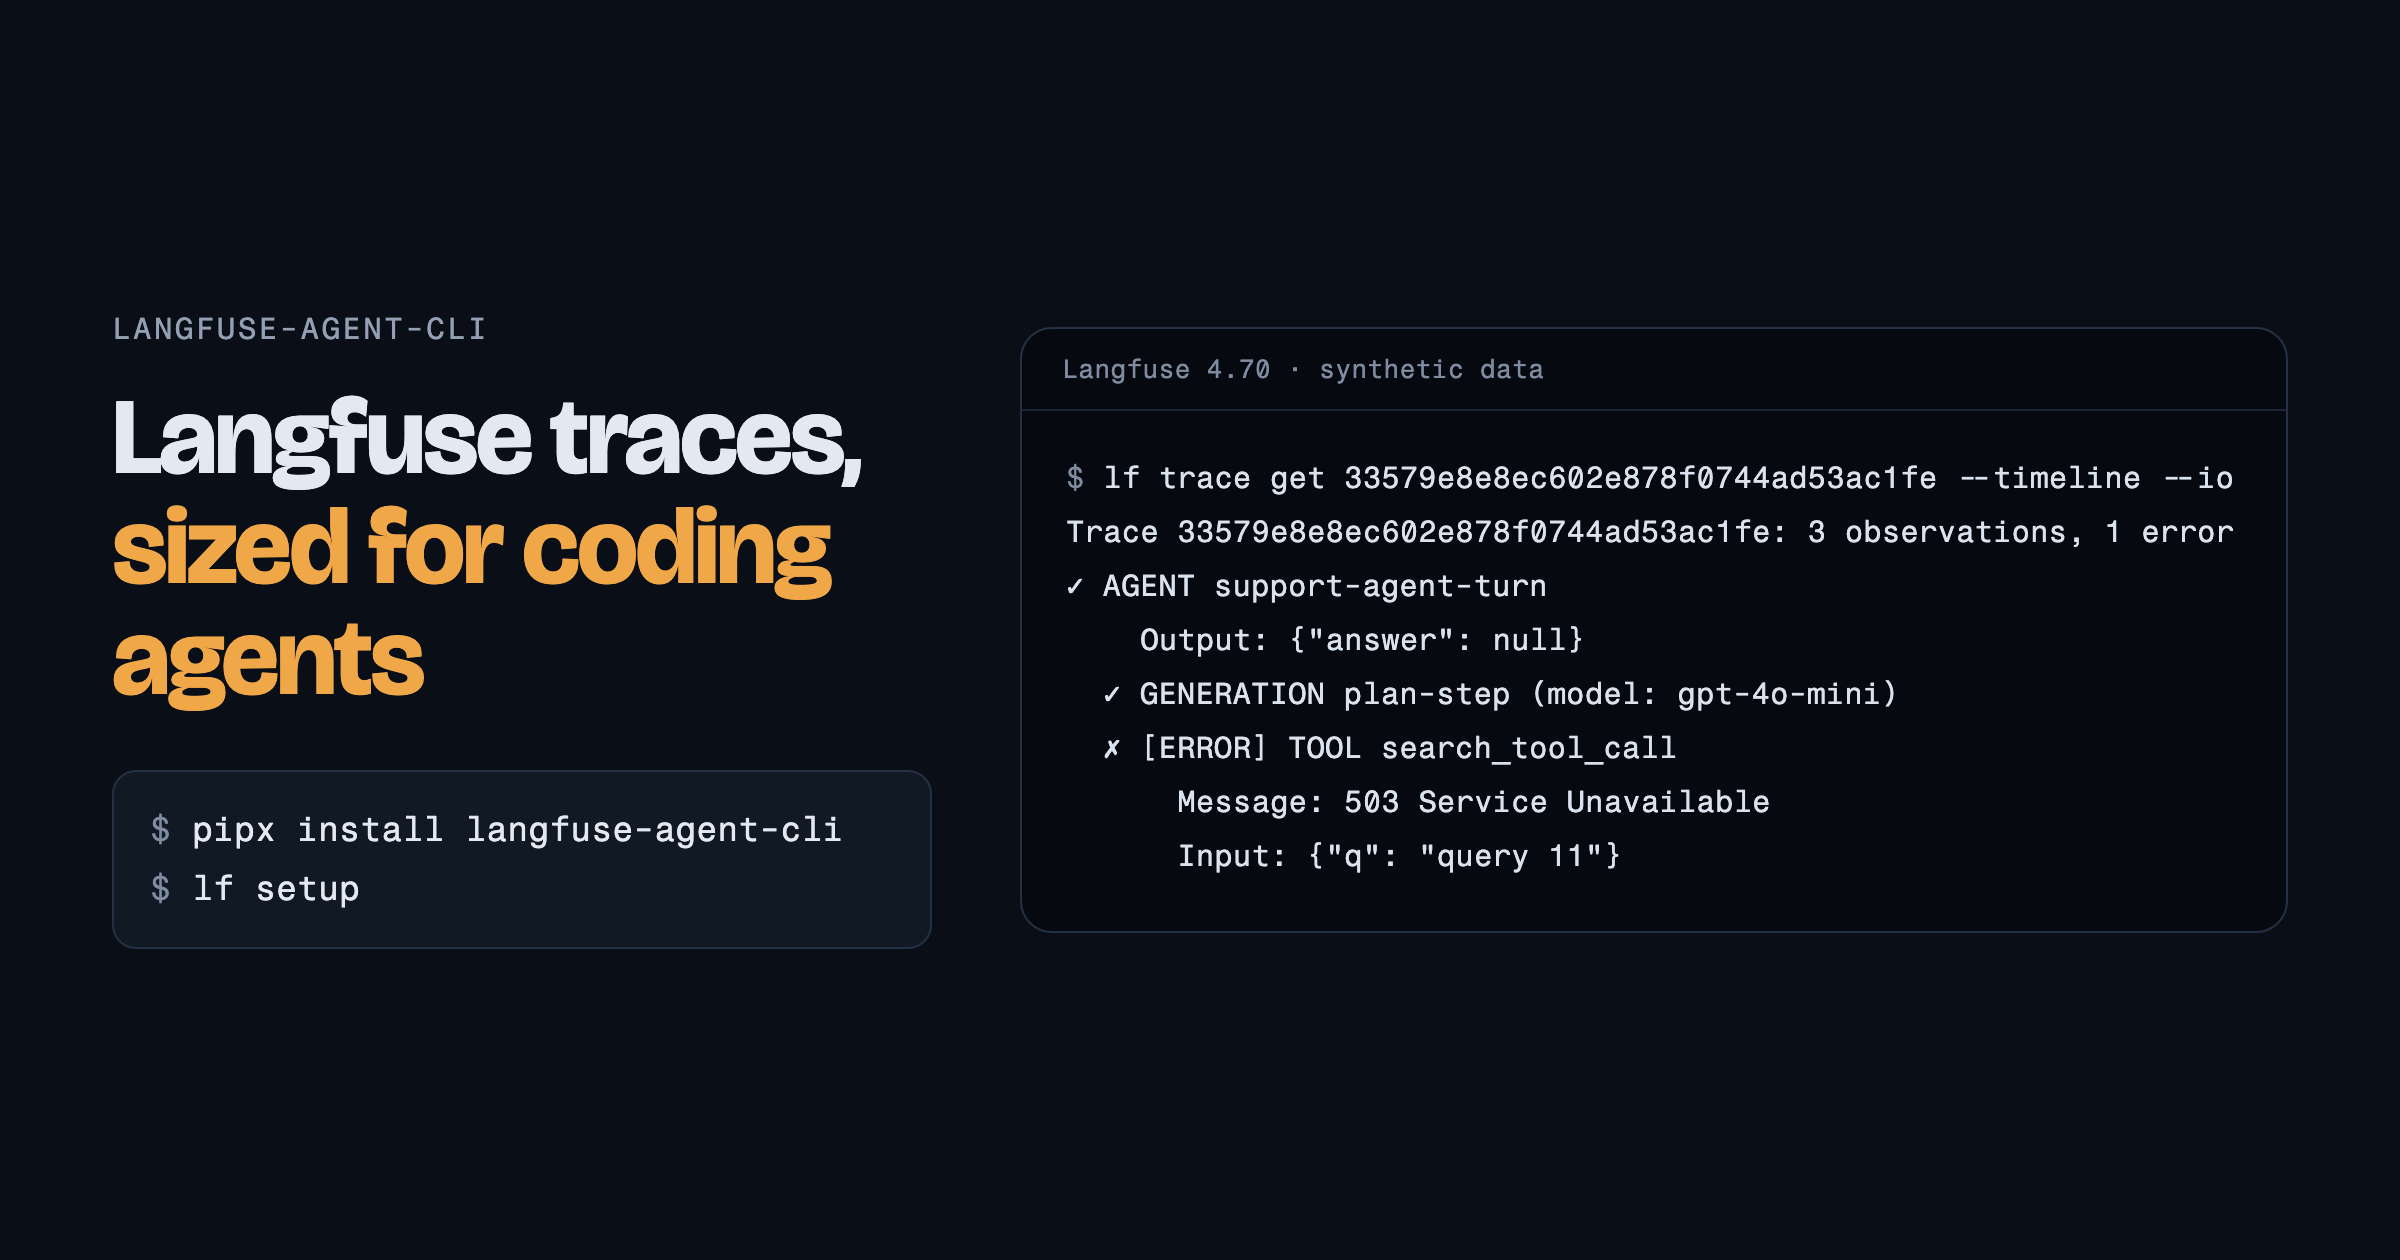
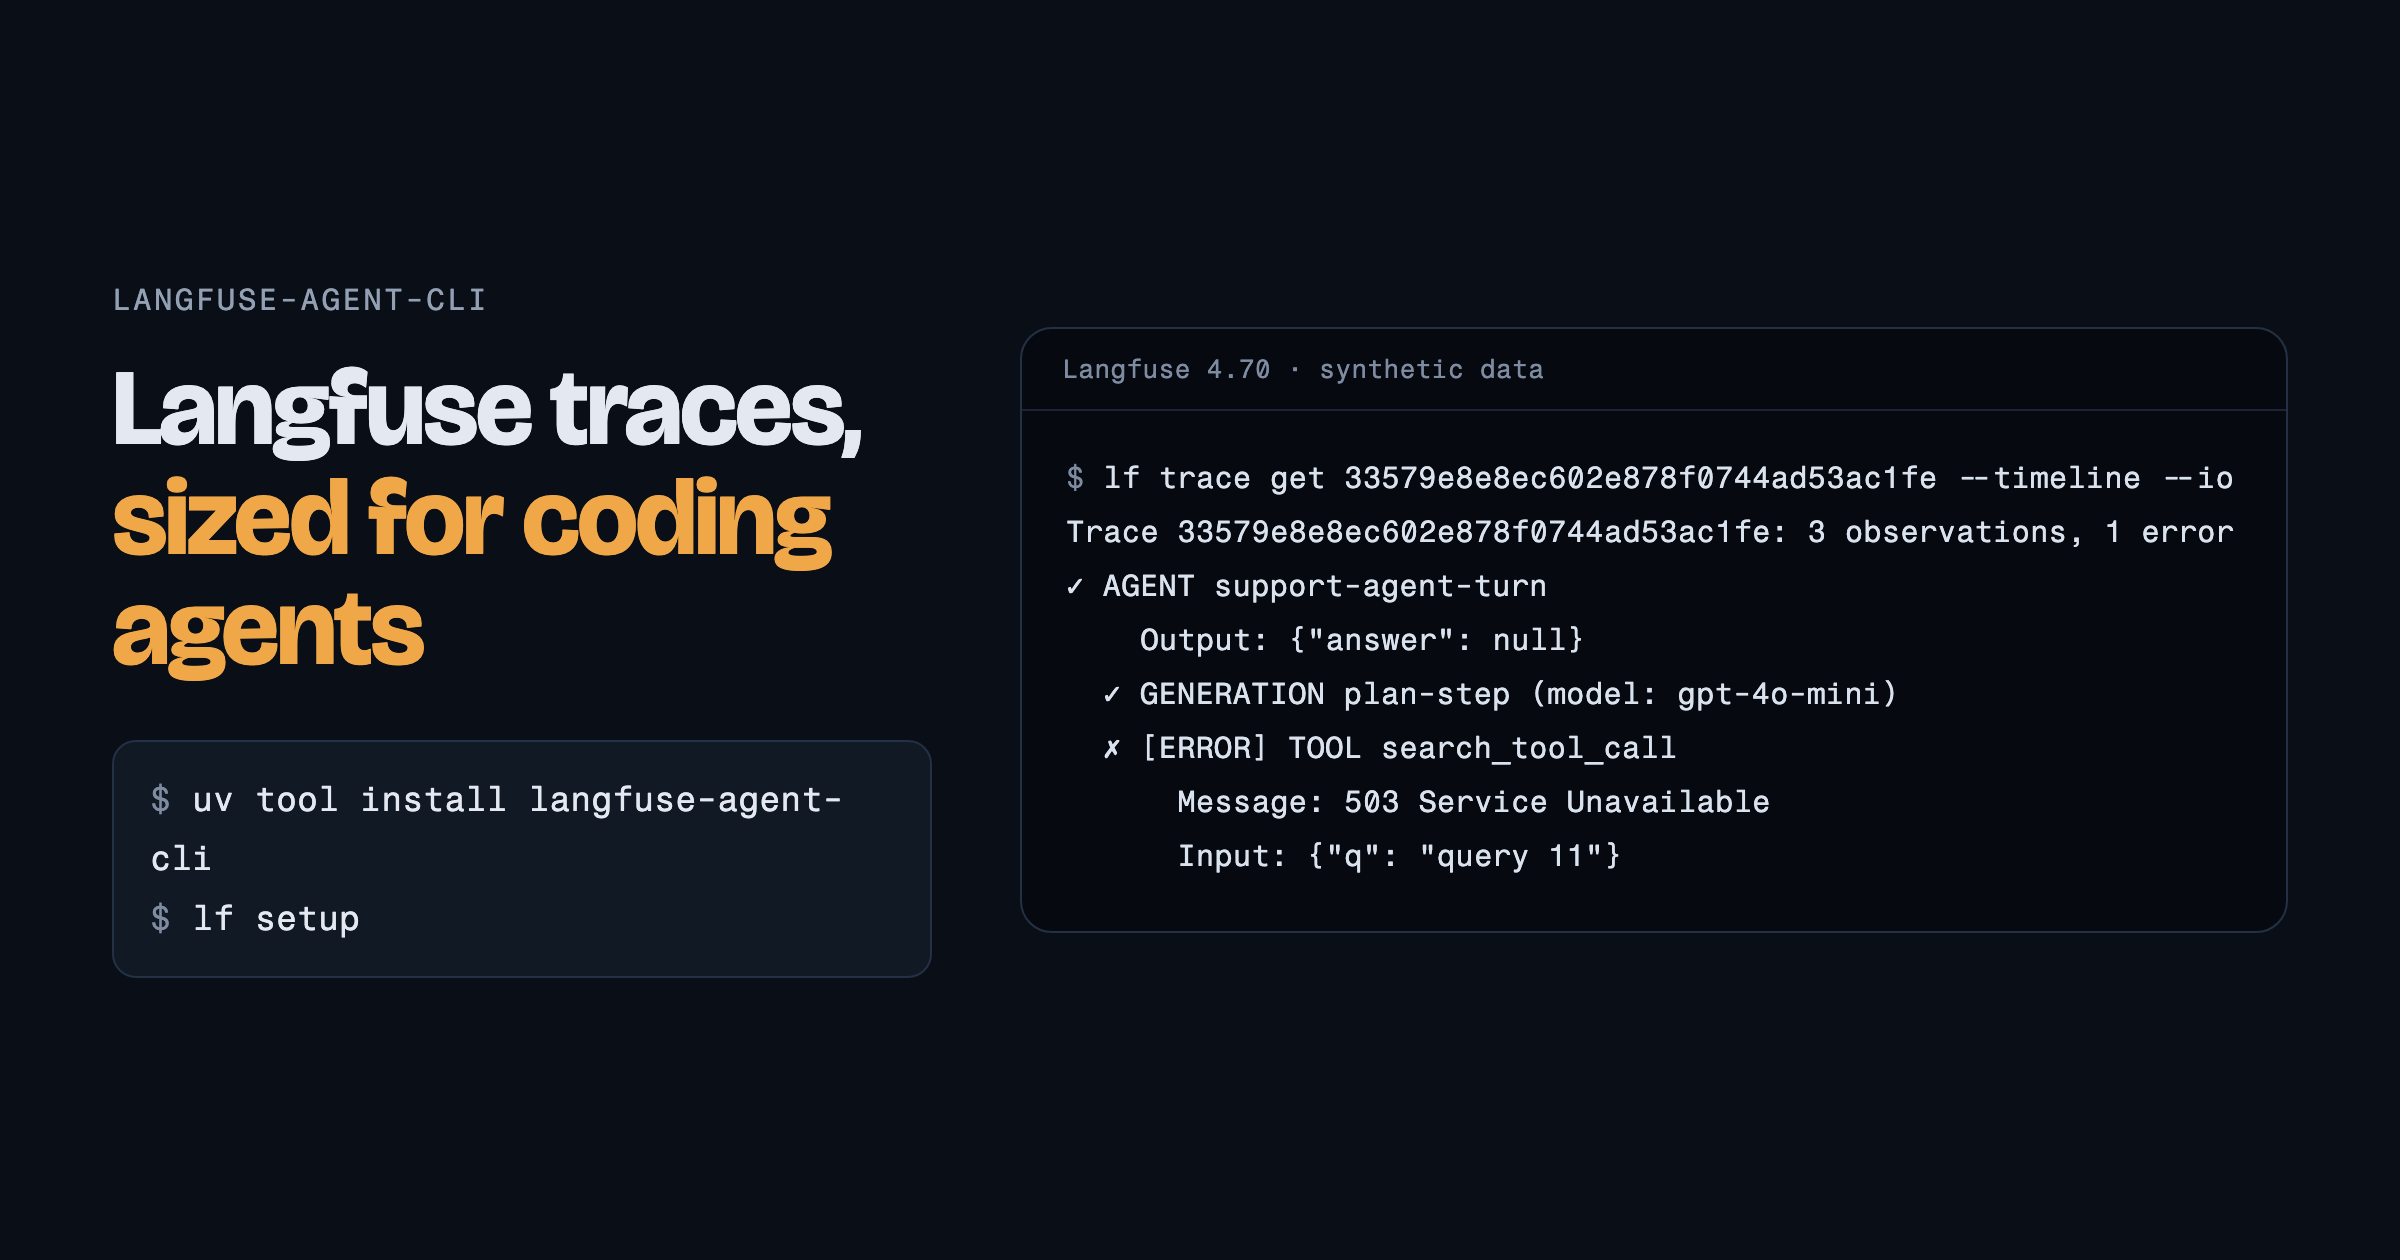
docs, security and CI upkeep after the 0.4.0 release (#5)
- Releasing instructions follow the new main ruleset: changes land through pull requests, then the merge
  commit is tagged; CONTRIBUTING says so and lists the installer's shellcheck.
- uv, pipx and npx started by lf upgrade and lf uninstall now get an environment without LANGFUSE_*
  variables, as lf setup already did; SECURITY.md says which programs lf starts and what it talks to.
- README: exit code 130; help catalog: the third reason setup exits 1; OUTPUT.md: which inputs the
  timeline shows; agent guide: the one-liner is for macOS and Linux.
- Landing page: 399 unit tests, og:image:alt names --io, the social card shows a current install path;
  one pitch for PyPI's summary and lf --help.
- GitHub Actions bumped to checkout v7, setup-python v7, upload-artifact v7, download-artifact v8
  (Dependabot's four proposals, each green in CI).

Changed region(s): [[0.0312, 0.2167, 0.375, 0.5881], [0.0625, 0.619, 0.3438, 0.7429], [0.0312, 0.2786, 0.0625, 0.3095]]

diff --git a/docs/index.html b/docs/index.html
@@ -12,7 +12,7 @@
 <meta property="og:image" content="https://tns15june.github.io/langfuse-agent-cli/lf-timeline.png">
 <meta property="og:image:width" content="2400">
 <meta property="og:image:height" content="1260">
-<meta property="og:image:alt" content="lf trace get --timeline marks the failing tool call, its error message and its input">
+<meta property="og:image:alt" content="lf trace get --timeline --io marks the failing tool call, its error message and its input">
 <meta name="twitter:card" content="summary_large_image">
 <meta name="twitter:title" content="langfuse-agent-cli: Langfuse traces, sized for coding agents">
 <meta name="twitter:description" content="Ask your coding agent about your LLM app in plain English. lf answers from your Langfuse data: failing traces with their errors, a trace as a tree, cost, latency, prompts and scores.">
@@ -310,7 +310,7 @@ Trace 33579e8e8ec602e878f0744ad53ac1fe: 3 observations, 1 error
     </div>
     <div class="stats">
       <div class="stat"><b>10 / 10</b><span>plain-English questions answered correctly by fresh Claude Code sessions with only the skill</span></div>
-      <div class="stat"><b>352</b><span>unit tests, on Python 3.10, 3.11, 3.12 and 3.13 in CI</span></div>
+      <div class="stat"><b>399</b><span>unit tests, on Python 3.10, 3.11, 3.12 and 3.13 in CI</span></div>
       <div class="stat"><b>13 / 13</b><span>live tests against the newest Langfuse release in CI, and 4.70 locally</span></div>
       <div class="stat"><b>4.30, 4.70</b><span>Langfuse versions lf metrics and lf doctor ran against; the full live suite on 4.70</span></div>
     </div>

diff --git a/tests/test_lifecycle.py b/tests/test_lifecycle.py
@@ -18,10 +18,11 @@ class Runner:
     """Stands in for subprocess.run: records each command and returns the queued exit codes."""
 
     def __init__(self, *codes):
-        self.codes, self.calls = list(codes), []
+        self.codes, self.calls, self.kwargs = list(codes), [], []
 
     def __call__(self, cmd, **kwargs):
         self.calls.append(cmd)
+        self.kwargs.append(kwargs)
         return subprocess.CompletedProcess(cmd, self.codes.pop(0) if self.codes else 0)
 
 
@@ -99,6 +100,27 @@ def test_upgrade_of_a_pip_install_explains_and_runs_nothing(monkeypatch, capsys,
     assert tools.calls == []
     assert "pip install --upgrade langfuse-agent-cli" in err
     assert "not installed with uv or pipx" in err  # install_method cannot tell pip from conda or a project venv
+
+
+def test_upgrade_keeps_keys_from_the_installer_but_not_from_the_follow_up_setup(monkeypatch, tools):
+    method(monkeypatch, "uv")
+    monkeypatch.setenv("LANGFUSE_PUBLIC_KEY", "pk-lf-1")
+    monkeypatch.setenv("LANGFUSE_SECRET_KEY", "sk-lf-1")
+
+    main(["upgrade", "--yes"])
+
+    installer, setup = tools.kwargs
+    assert not [k for k in installer["env"] if k.startswith("LANGFUSE_")]
+    assert "env" not in setup  # lf setup reads the credentials from the environment
+
+
+def test_uninstall_keeps_keys_from_npx_and_the_installer(monkeypatch, tools, installed_skill):
+    method(monkeypatch, "uv")
+    monkeypatch.setenv("LANGFUSE_SECRET_KEY", "sk-lf-1")
+
+    main(["uninstall", "--yes"])
+
+    assert tools.kwargs and all(not [k for k in kw["env"] if k.startswith("LANGFUSE_")] for kw in tools.kwargs)
 
 
 def test_failed_upgrade_does_not_run_setup(monkeypatch, capsys, tools):

diff --git a/langfuse_cli/commands/help_map.py b/langfuse_cli/commands/help_map.py
@@ -50,7 +50,8 @@ COMMAND_CATALOG: Dict[str, Dict[str, Any]] = {
             "Asks for the host and keys when a saved profile is missing or rejected, and before installing the "
             "skill, unless --yes is given or stdin is not a terminal; agents run it with --yes.",
             "Installs the skill version that matches the CLI; run it again after upgrading.",
-            "Exit code 1 means an authentication or server problem, or that the skill was not installed.",
+            "Exit code 1 means an authentication or server problem, that the skill was not installed, or that "
+            "--profile-name named a new profile, which needs a terminal to create.",
         ],
     },
     "upgrade": {

diff --git a/langfuse_cli/commands/lifecycle.py b/langfuse_cli/commands/lifecycle.py
@@ -2,6 +2,7 @@
 from __future__ import annotations
 
 import argparse
+import os
 import subprocess
 import sys
 from pathlib import Path
@@ -26,8 +27,9 @@ def _run(cmd: List[str], exe: Optional[str] = None) -> int:
             print(f"  ✗ {why_not}")
             return 127
     print(f"  Running: {' '.join(cmd)}", flush=True)
+    env = {k: v for k, v in os.environ.items() if not k.startswith("LANGFUSE_")}  # keys stay out of installers
     try:
-        return subprocess.run([exe, *cmd[1:]]).returncode
+        return subprocess.run([exe, *cmd[1:]], env=env).returncode
     except OSError as e:
         print(f"  ✗ {e}")
         return 1

diff --git a/langfuse_cli/cli.py b/langfuse_cli/cli.py
@@ -65,7 +65,8 @@ def create_parser() -> argparse.ArgumentParser:
 
     parser = argparse.ArgumentParser(
         prog="lf",
-        description="Agent-oriented CLI for Langfuse traces, prompts, datasets and scores.",
+        description="Ask your coding agent about your LLM app in plain English; it answers from your Langfuse data "
+                    "with lf: traces, metrics, prompts, datasets and scores.",
         parents=[common_parser],
     )
     parser.add_argument("-v", "--version", action="version", version=f"lf {__version__}")

diff --git a/README.md b/README.md
@@ -179,9 +179,9 @@ Trace 33579e8e8ec602e878f0744ad53ac1fe: 3 observations, 1 error
 Observations with a measured duration show it in brackets, such as `[1.24s]`. Langfuse 4.70 reports
 no duration for observations of zero length, like these synthetic ones.
 
-Exit codes: `0` success, `1` API or configuration error, `2` invalid command. The reason for a failure is
-on stderr, except that `doctor`, `setup --yes` and `auth status` print their whole report, failures
-included, on stdout. `setup` also exits `1` when the skill was not installed.
+Exit codes: `0` success, `1` API or configuration error, `2` invalid command, `130` Ctrl-C at a prompt.
+The reason for a failure is on stderr, except that `doctor`, `setup --yes` and `auth status` print their
+whole report, failures included, on stdout. `setup` also exits `1` when the skill was not installed.
 
 ## Troubleshooting
 
@@ -193,7 +193,7 @@ included, on stdout. `setup` also exits `1` when the skill was not installed.
 | "This server has no /api/public/v2/observations" | The server predates Langfuse v4. The trace commands need an upgraded server. |
 | "npx not found" or "Skill not installed" | Install Node.js 22.20 or later, then run `lf setup`. |
 | Your saved profile is ignored | `LANGFUSE_PUBLIC_KEY` or `LANGFUSE_SECRET_KEY` is set; environment variables take precedence over profiles. |
-| "The installed skill is v0.3.0" | Run `lf setup` to install the skill that matches your `lf` version. |
+| "The installed skill is v…" (an older version) | Run `lf setup` to install the skill that matches your `lf` version. |
 
 ## API endpoints used
 
@@ -236,16 +236,19 @@ the latest Langfuse release, on every push and weekly.
 ### Releasing
 
 The Publish workflow uploads to PyPI with trusted publishing, so no token is stored; the PyPI project
-lists `publish.yml` and the GitHub environment `pypi` as its trusted publisher. Bump `__version__` in
-`langfuse_cli/__init__.py`, commit, then push that commit and its tag together:
+lists `publish.yml` and the GitHub environment `pypi` as its trusted publisher. `main` accepts changes
+only through pull requests, so bump `__version__` in `langfuse_cli/__init__.py` in a pull request,
+merge it, then tag the merge commit right away and push the tag:
 
 ```bash
-git tag v0.4.0 && git push --atomic origin main v0.4.0
+git fetch origin && git tag v0.5.0 origin/main && git push origin v0.5.0
+gh release create v0.5.0 --title "lf 0.5.0" --notes-file release-notes.md
 ```
 
 The workflow checks that the tag matches the version, runs the tests, builds and checks the
-distributions, installs the wheel, and uploads the wheel and the source archive. `main` should never
-carry a version without its tag, because `lf setup` and `lf doctor` point at the skill under that tag.
+distributions, installs the wheel, and uploads the wheel and the source archive. Tag as soon as the
+version bump is merged: `lf setup` and `lf doctor` point at the skill under the tag that matches the
+version on `main`.
 
 ## Feedback
 

diff --git a/CONTRIBUTING.md b/CONTRIBUTING.md
@@ -17,6 +17,7 @@ pip install -e ".[dev]"
 ```bash
 ruff check .
 pytest -q
+shellcheck docs/install.sh   # CI runs this too; needed when you change the installer
 ```
 
 The unit tests replay responses recorded from Langfuse 4.70.0 (synthetic data) and never touch the
@@ -34,6 +35,7 @@ LF_LIVE=1 pytest tests/test_live.py -v
 
 ## How changes are made here
 
+- Every change lands through a pull request; `main` rejects direct pushes.
 - Write the test first and watch it fail, then make it pass. A behaviour change without a test is not
   finished.
 - Keep output safe for agents: data commands print exactly one JSON document on stdout, errors go to
@@ -45,12 +47,13 @@ LF_LIVE=1 pytest tests/test_live.py -v
 
 ## Releasing (maintainers)
 
-Bump `__version__` in `langfuse_cli/__init__.py`, commit, then push the commit and its tag together:
+Bump `__version__` in `langfuse_cli/__init__.py` in a pull request and merge it. Then tag the merge
+commit, push the tag, and publish the release notes on GitHub:
 
 ```bash
-git tag v0.5.0 && git push --atomic origin main v0.5.0
+git fetch origin && git tag v0.5.0 origin/main && git push origin v0.5.0
+gh release create v0.5.0 --title "lf 0.5.0" --notes-file release-notes.md
 ```
 
 The Publish workflow tests, builds and uploads to PyPI through trusted publishing. `lf setup` installs
-the skill from the tag that matches the installed version, so `main` must never carry a version
-without its tag.
+the skill from the tag that matches the installed version, so tag as soon as the version bump is merged.

diff --git a/SECURITY.md b/SECURITY.md
@@ -13,10 +13,14 @@ Only the latest release on PyPI receives fixes.
 - Keys come from the command line, the environment, a `--env-file`, or a saved profile. Saved
   profiles live in `~/.config/langfuse/profiles.json`, created with mode 0600 and never world-readable.
 - `lf` never prints a full key. `lf doctor`, `lf auth status` and `lf auth list` show a masked form.
-- Child processes `lf` starts (the skills CLI during `lf setup`) get an environment without any
-  `LANGFUSE_*` variable.
+- The programs `lf` starts (the skills CLI, uv and pipx during `lf setup`, `lf upgrade` and
+  `lf uninstall`) get an environment without any `LANGFUSE_*` variable. The one exception is the
+  `lf setup` that `lf upgrade` runs afterwards, which keeps your environment because it reads the
+  credentials from it.
 - `lf` talks only to the Langfuse host you configure, plus `pypi.org` for the version check in
-  `lf doctor` (set `LF_NO_UPDATE_CHECK=1` to turn that off) and GitHub when installing the skill.
+  `lf doctor` (set `LF_NO_UPDATE_CHECK=1` to turn that off). `lf setup` and `lf uninstall` run
+  `npx skills`, which fetches the skills CLI from the npm registry and the skill from GitHub;
+  `lf upgrade` fetches the new version from PyPI through uv or pipx.
 - The one-line installer downloads uv's official installer from `astral.sh` only when neither uv nor
   pipx is present.
 

diff --git a/skills/langfuse-agent-cli/references/OUTPUT.md b/skills/langfuse-agent-cli/references/OUTPUT.md
@@ -116,5 +116,5 @@ Trace 33579e8e8ec602e878f0744ad53ac1fe: 3 observations, 1 error
 
 `✗ [ERROR]` and `⚠ [WARN]` mark failed and warning observations. A measured duration appears in
 brackets, such as `[1.24s]`; Langfuse 4.70 reports none for observations of zero length, like these
-synthetic ones. With `--io`, inputs and outputs shorter than 120 characters appear under their
-observation.
+synthetic ones. With `--io`, plain-text inputs and outputs shorter than 120 characters appear under
+their observation; JSON inputs and outputs, such as chat messages, are only in the JSON output.

diff --git a/INSTALL.md b/INSTALL.md
@@ -29,7 +29,7 @@ langfuse-agent-cli command, and its agent skill.
 
 ## Install
 
-Only when neither `lf` nor `~/.local/bin/lf` works:
+Only when neither `lf` nor `~/.local/bin/lf` works (macOS and Linux; on Windows use uv or pipx as below):
 
 ```bash
 curl -fsSL https://tns15june.github.io/langfuse-agent-cli/install.sh | sh -s -- --yes

diff --git a/docs/AGENTS.md b/docs/AGENTS.md
@@ -29,7 +29,7 @@ langfuse-agent-cli command, and its agent skill.
 
 ## Install
 
-Only when neither `lf` nor `~/.local/bin/lf` works:
+Only when neither `lf` nor `~/.local/bin/lf` works (macOS and Linux; on Windows use uv or pipx as below):
 
 ```bash
 curl -fsSL https://tns15june.github.io/langfuse-agent-cli/install.sh | sh -s -- --yes
